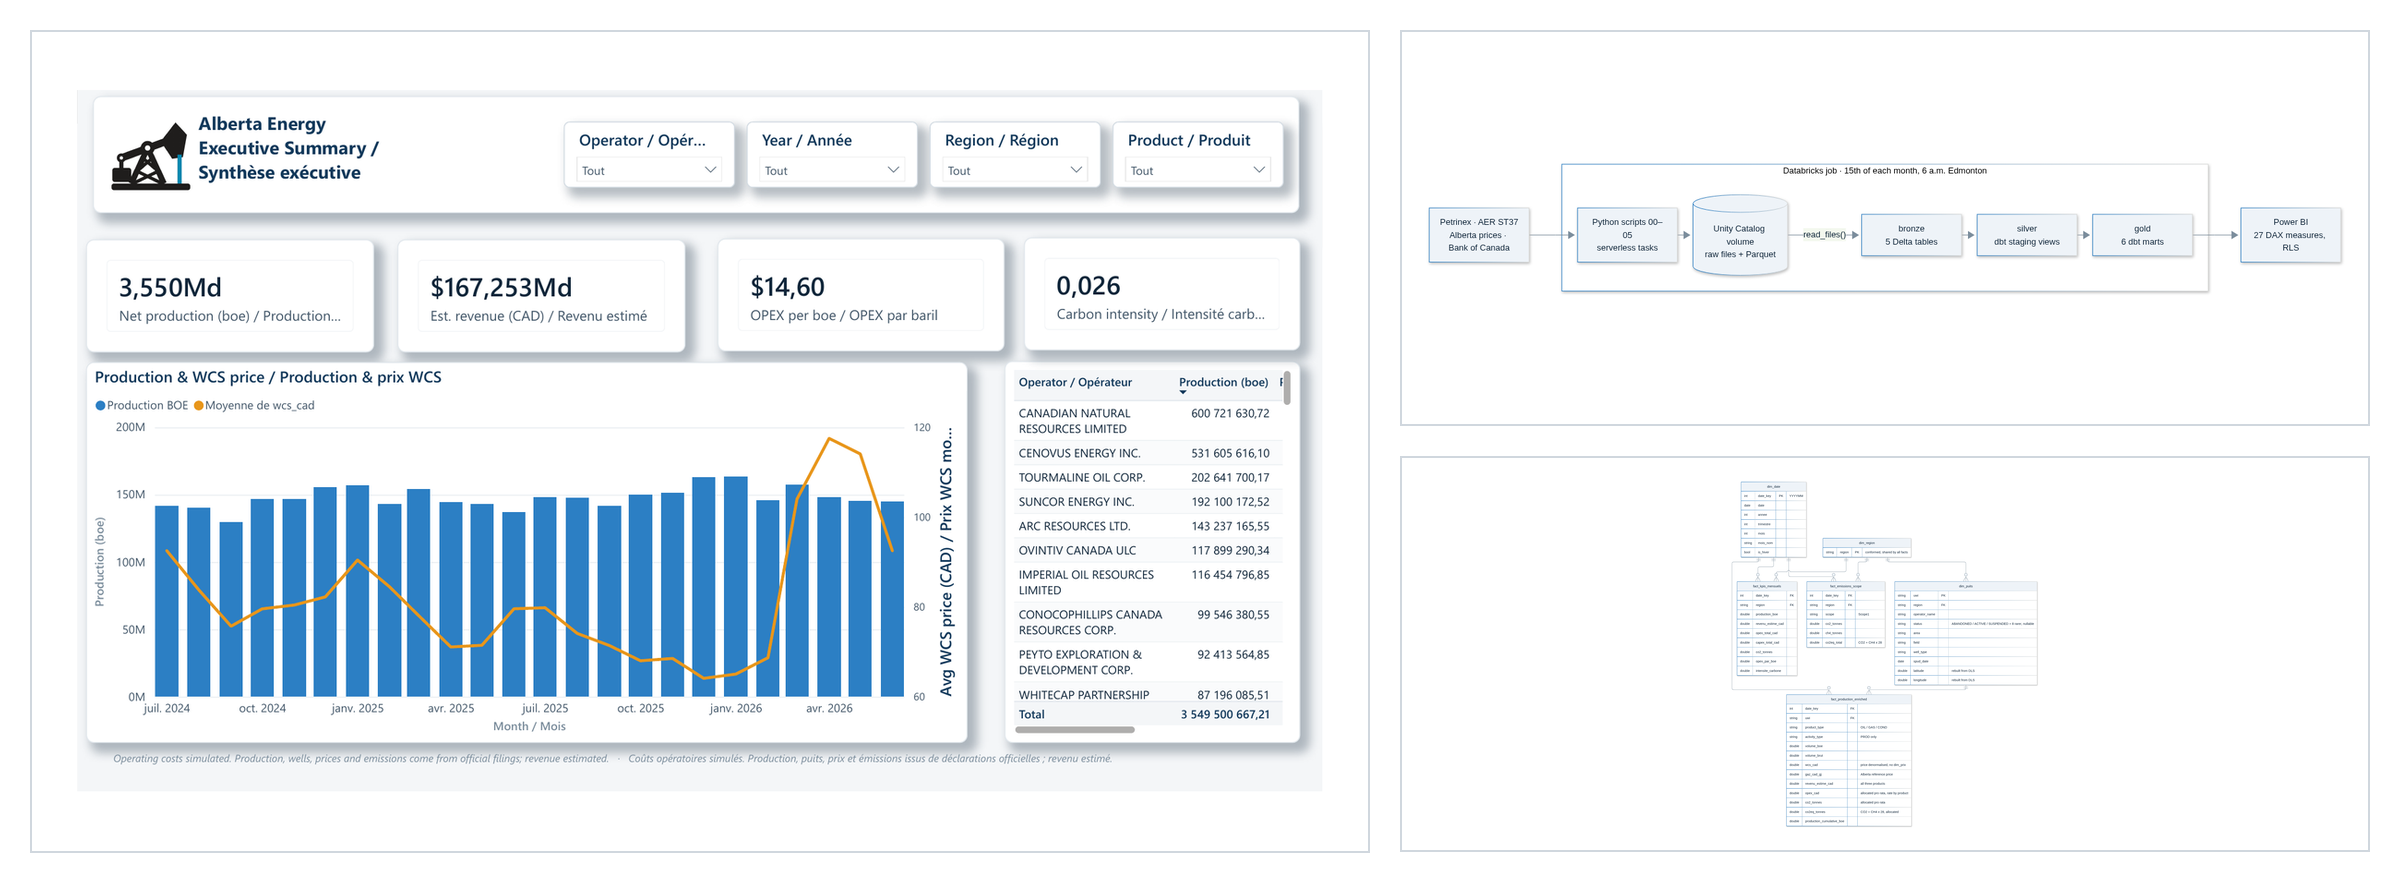
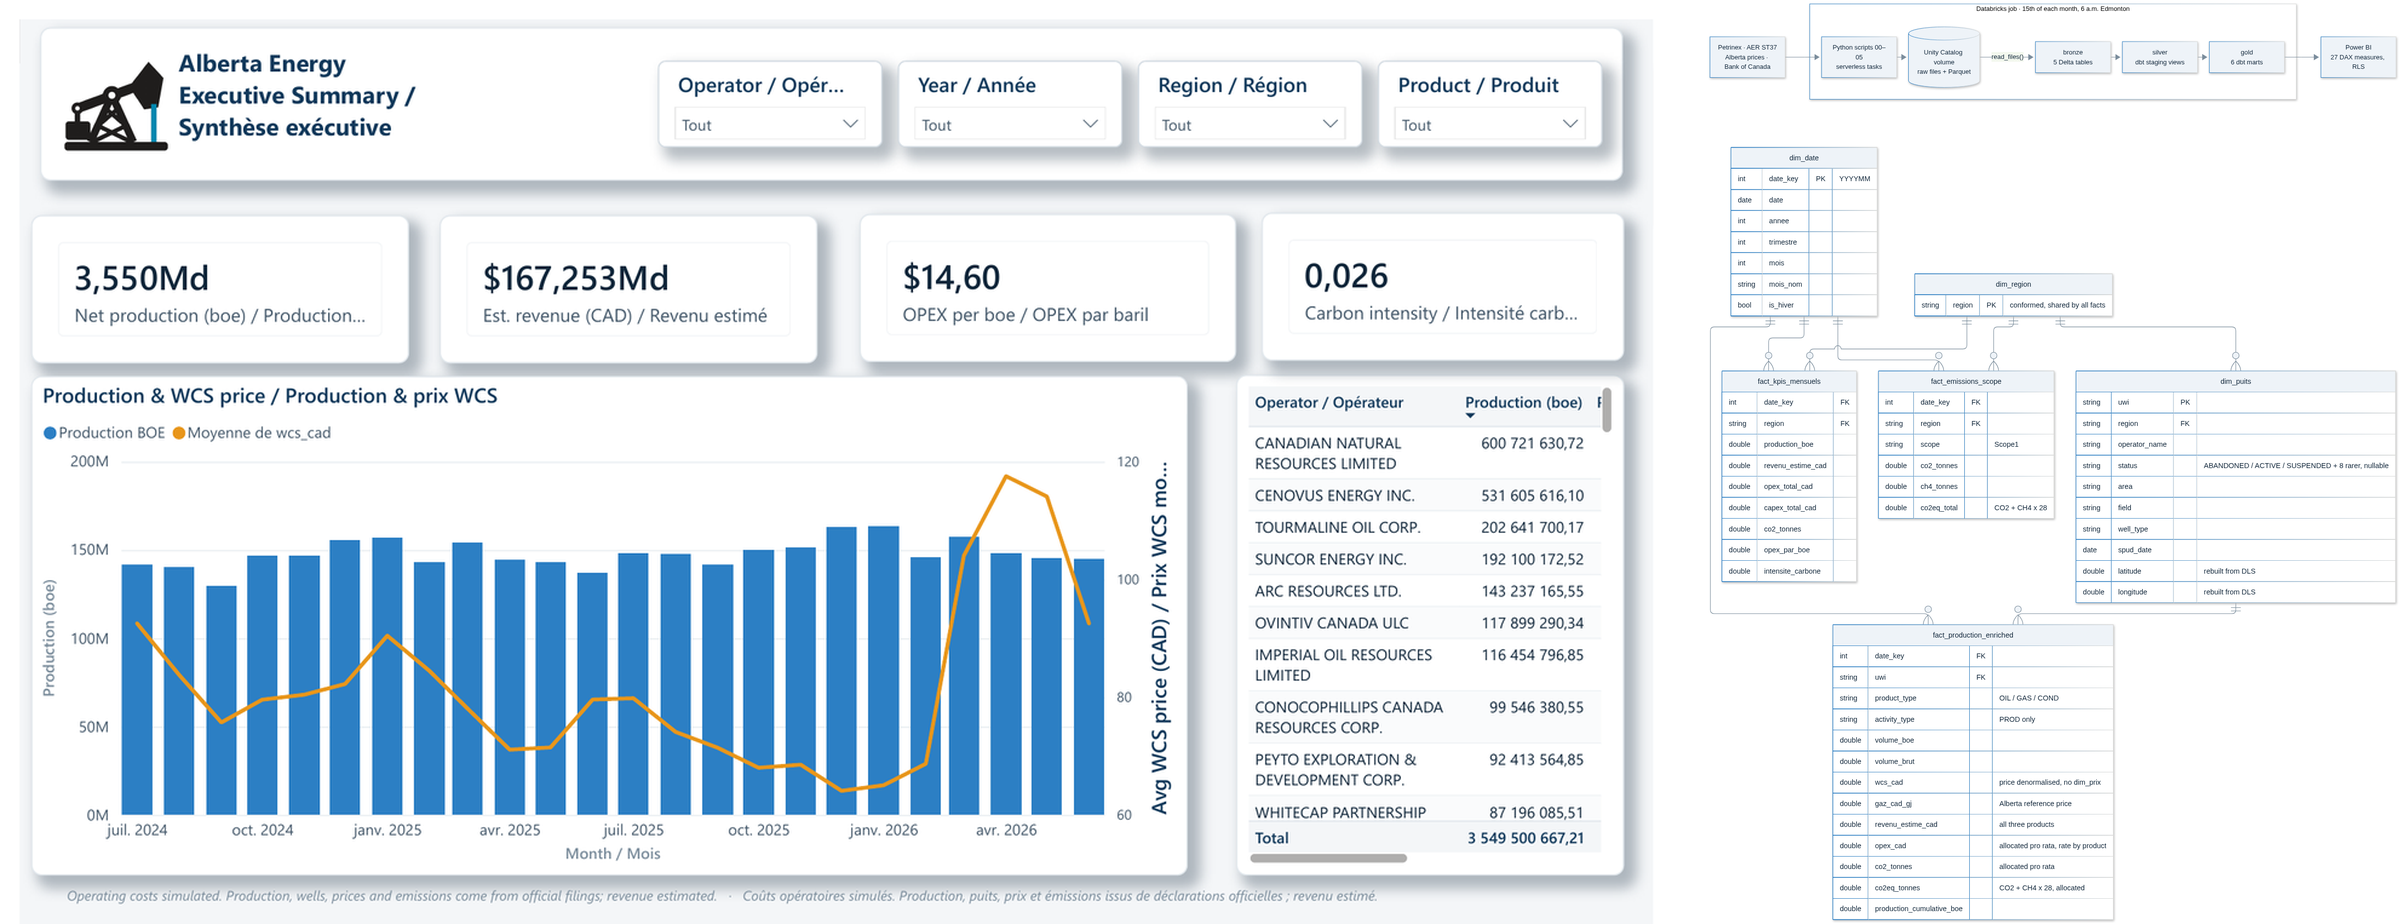
docs: fill the featured overviews edge to edge
No more frames. Each screenshot and diagram is cropped to its content, and the
right column is sized so the pipeline and the data model together match the
screenshot height, leaving no empty space.

Changed region(s): [[0.0, 0.0, 1.0, 1.0], [0.9688, 0.581, 1.0, 0.6116]]

diff --git a/assets/source/featured/build.py b/assets/source/featured/build.py
@@ -8,12 +8,12 @@ import io
 import urllib.request
 from pathlib import Path
 
-from PIL import Image, ImageDraw
+from PIL import Image, ImageChops
 
 HERE = Path(__file__).parent
 OUT = HERE.parent.parent / "projects"
 PROJECTS = {"alberta": "alberta-executive.png", "calgary-311": "calgary-311-monthly.png"}
-WIDTH, PAD, GAP, INNER, BORDER = 2400, 30, 30, 24, "#D0D7DE"
+WIDTH, GAP = 2400, 40
 
 
 def render(mmd: Path) -> Image.Image:
@@ -27,24 +27,31 @@ def render(mmd: Path) -> Image.Image:
         return Image.open(io.BytesIO(resp.read())).convert("RGB")
 
 
-def paste_fit(canvas: Image.Image, img: Image.Image, box: tuple[int, int, int, int]) -> None:
-    x, y, w, h = box
-    ImageDraw.Draw(canvas).rectangle([x, y, x + w - 1, y + h - 1], outline=BORDER, width=2)
-    scale = min((w - 2 * INNER) / img.width, (h - 2 * INNER) / img.height)
-    fit = img.resize((round(img.width * scale), round(img.height * scale)), Image.LANCZOS)
-    canvas.paste(fit, (x + (w - fit.width) // 2, y + (h - fit.height) // 2))
+def trim(img: Image.Image, tol: int = 12, margin: int = 16) -> Image.Image:
+    """Crop the uniform margin (colour of the top-left pixel), keeping a thin border so text never touches the edge."""
+    bg = Image.new("RGB", img.size, img.getpixel((0, 0)))
+    mask = ImageChops.difference(img, bg).convert("L").point(lambda v: 255 if v > tol else 0)
+    left, top, right, bottom = mask.getbbox() or (0, 0, *img.size)
+    return img.crop((max(left - margin, 0), max(top - margin, 0), min(right + margin, img.width), min(bottom + margin, img.height)))
+
+
+def scaled(img: Image.Image, width: int) -> Image.Image:
+    return img.resize((width, round(img.height * width / img.width)), Image.LANCZOS)
 
 
 for name, screenshot in PROJECTS.items():
-    kpi = Image.open(OUT / screenshot).convert("RGB")
-    left_w = round((WIDTH - 2 * PAD - GAP) * 0.58)
-    right_w = WIDTH - 2 * PAD - GAP - left_w
-    left_h = round(left_w * kpi.height / kpi.width) + 2 * INNER
-    right_h = (left_h - GAP) // 2
-    canvas = Image.new("RGB", (WIDTH, left_h + 2 * PAD), "white")
-    paste_fit(canvas, kpi, (PAD, PAD, left_w, left_h))
-    right_x = PAD + left_w + GAP
-    paste_fit(canvas, render(HERE / f"{name}-pipeline.mmd"), (right_x, PAD, right_w, right_h))
-    paste_fit(canvas, render(HERE / f"{name}-model.mmd"), (right_x, PAD + right_h + GAP, right_w, right_h))
+    kpi = trim(Image.open(OUT / screenshot).convert("RGB"))
+    pipe = trim(render(HERE / f"{name}-pipeline.mmd"))
+    model = trim(render(HERE / f"{name}-model.mmd"))
+    # right column width that makes pipeline + model exactly as tall as the screenshot: no empty space
+    a_kpi = kpi.width / kpi.height
+    k = pipe.height / pipe.width + model.height / model.width
+    right_w = round((WIDTH - GAP - a_kpi * GAP) / (1 + a_kpi * k))
+    left_w = WIDTH - GAP - right_w
+    kpi, pipe, model = scaled(kpi, left_w), scaled(pipe, right_w), scaled(model, right_w)
+    canvas = Image.new("RGB", (WIDTH, max(kpi.height, pipe.height + GAP + model.height)), "white")
+    canvas.paste(kpi, (0, 0))
+    canvas.paste(pipe, (left_w + GAP, 0))
+    canvas.paste(model, (left_w + GAP, pipe.height + GAP))
     canvas.save(OUT / f"{name}-overview.png", optimize=True)
-    print(name, canvas.size)
+    print(name, canvas.size, "right column", right_w)
